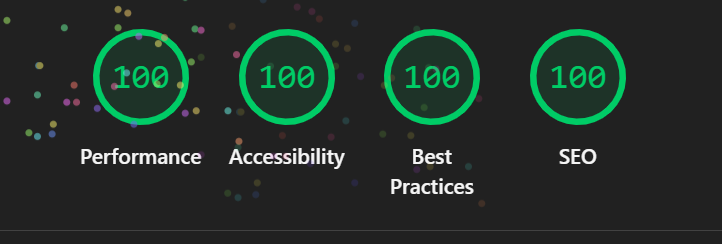
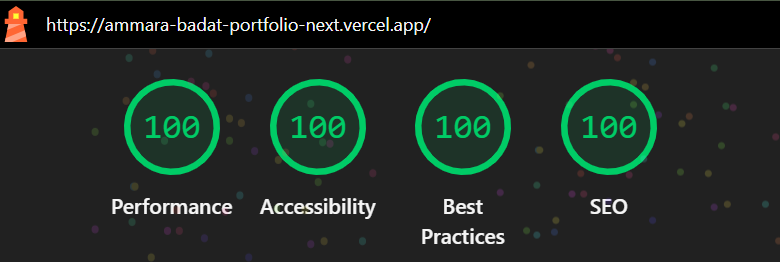
feat: Lighthouse badge for phone and laptop; docs: dev note on Lighthouse scores

diff --git a/content/notes.ts b/content/notes.ts
@@ -31,6 +31,47 @@ export type Note = {
 
 export const notes: Note[] = [
   {
+    slug: "why-my-phone-lighthouse-score-moves",
+    title: "100 on a laptop, 91 to 99 on a phone: why my Lighthouse score moves",
+    description:
+      "My portfolio scores 100 for everything on a laptop. On a phone, Performance lands anywhere from 91 to 99. Why that happens, and how I show it honestly.",
+    date: "2026-11-03",
+    tags: ["Lighthouse", "Performance", "Mobile"],
+    body: [
+      {
+        type: "p",
+        text: "My footer has a Lighthouse badge. It used to show one row of scores, from a phone test. Now it shows two: a phone and a laptop. On a laptop, my Home page scores 100 for Performance, Accessibility, Best Practices and SEO. On a phone, the last three are always 100, but Performance comes out anywhere from 91 to 99, even when I run it twice in a row without changing anything.",
+      },
+      { type: "h2", text: "A phone test is a slow phone on purpose" },
+      {
+        type: "p",
+        text: "Lighthouse doesn't use your real phone. It pretends to be a mid-range phone on a slow 4G connection, with the processor slowed down about four times. The laptop test uses a fast connection and no slowdown. That's deliberate: plenty of people visit websites on cheap phones and patchy data, and a site that's fast there is fast everywhere.",
+      },
+      {
+        type: "p",
+        text: "Because the phone test multiplies every delay, tiny differences count. If my site's server answers a little slower on one run, or the computer running the test is busy, that becomes a much bigger difference after the slowdown. On a laptop, the same small delay is too small to change the score.",
+      },
+      { type: "h2", text: "Why only Performance moves" },
+      {
+        type: "ul",
+        items: [
+          "Performance is made from timings: how soon something appears, how soon the biggest thing appears, how long the page is too busy to respond, and whether things jump around. Timings change a little on every run, so the score does too.",
+          "Accessibility, Best Practices and SEO are checklists: does every image have alt text, can the text be read against its background, does the page have a title. A check passes or fails the same way every time, so those scores don't move.",
+        ],
+      },
+      { type: "h2", text: "Showing it honestly" },
+      {
+        type: "p",
+        text: "It would be easy to run the phone test until it says 99 and show only that. Instead the badge shows a real recent result, and its hover text says the phone Performance score is usually between 91 and 99. My README has the same range, with a real screenshot from each device, cropped to the same size, with the site's address at the top so it's clear which site was tested.",
+      },
+      {
+        type: "tip",
+        text: "Run Lighthouse three times and look at the middle score, not the best one. And only compare a phone score with a phone score: a laptop 100 and a phone 95 don't mean the phone version is broken.",
+      },
+    ],
+  },
+  {
+
     slug: "share-time-ago-and-duplicate",
     title: "Share, \"2 days ago\" and Duplicate: three small features",
     description:

diff --git a/README.md b/README.md
@@ -191,8 +191,8 @@ Extras beyond the milestones, in the order I built them.
 | Installable | A web app manifest and icons, so the portfolio can be added to a phone's home screen. |
 
 #### ✅ Dev notes
-- **33 dev notes** about what I learned (Row Level Security, spam, Lighthouse, testing on a phone, the navigation bar, the animations switch, automated tests, the live admin inbox, drafts with an activity log, a sign-in that ends when the tab closes, two-step sign-in, how my tests grew from 47 to 65, writing about security without helping attackers, keeping my docs honest, the Lighthouse check that never ran, how my tests grew from 65 to 83, one timeline for projects, messages and images, why my missing project pages said 200, security headers, small things that save people's work, keeping a visitor's message safe, testing my site like a real visitor, showing work in progress honestly, building PaperTrail with Firebase, four small additions: Mark all read, topics, related notes and my local time, building TickList, with lists live on everyone's phone, getting an email when someone messages me, building Rememba, flashcards that know when you'll forget, backup codes for when I lose my phone, getting three Firebase apps to 100 on Lighthouse, testing my database rules automatically, two warnings from GitHub: a moved test machine and a fake secret, and three small features: Share, "2 days ago" and Duplicate).
-- Short posts (thirty-three so far) (`content/notes.ts`), each with its own page, share image and structured data, plus an RSS feed at `/notes/rss.xml`. New notes are added to the sitemap, the feed and Ctrl+K search automatically.
+- **34 dev notes** about what I learned (Row Level Security, spam, Lighthouse, testing on a phone, the navigation bar, the animations switch, automated tests, the live admin inbox, drafts with an activity log, a sign-in that ends when the tab closes, two-step sign-in, how my tests grew from 47 to 65, writing about security without helping attackers, keeping my docs honest, the Lighthouse check that never ran, how my tests grew from 65 to 83, one timeline for projects, messages and images, why my missing project pages said 200, security headers, small things that save people's work, keeping a visitor's message safe, testing my site like a real visitor, showing work in progress honestly, building PaperTrail with Firebase, four small additions: Mark all read, topics, related notes and my local time, building TickList, with lists live on everyone's phone, getting an email when someone messages me, building Rememba, flashcards that know when you'll forget, backup codes for when I lose my phone, getting three Firebase apps to 100 on Lighthouse, testing my database rules automatically, two warnings from GitHub: a moved test machine and a fake secret, three small features: Share, "2 days ago" and Duplicate, and why my phone Lighthouse score moves).
+- Short posts (thirty-four so far) (`content/notes.ts`), each with its own page, share image and structured data, plus an RSS feed at `/notes/rss.xml`. New notes are added to the sitemap, the feed and Ctrl+K search automatically.
 - A reading progress bar, a **#** link on every sub-heading, **Older note** / **Newer note** links, an "Updated" date on notes I changed later, and a **Copy** button on every code example (`components/ReadingProgress.tsx`, `components/CopyCode.tsx`, `headingIds()`, `noteNeighbours()` and `updated` in `content/notes.ts`).
 
 #### ✅ SEO and performance
